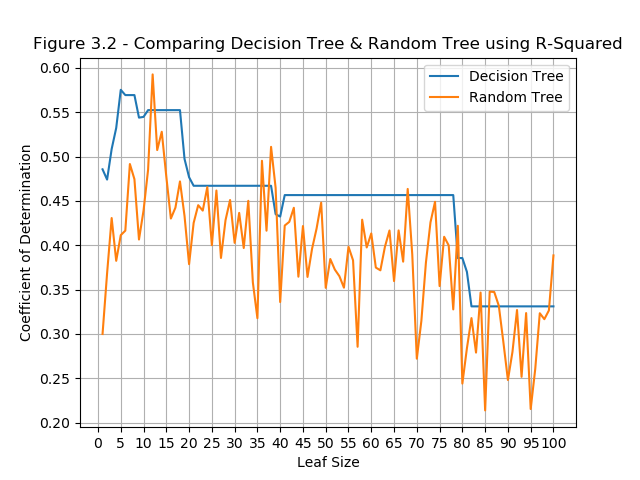
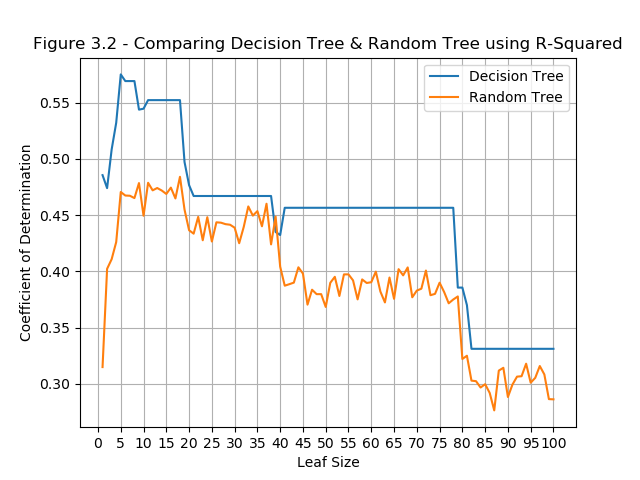
Modified plotting data (Taking Mean of several runs)

diff --git a/assess_learners/testlearner.py b/assess_learners/testlearner.py
@@ -70,7 +70,7 @@ def experiment_1(train_x, train_y, test_x, test_y):
                               out_sample_rsme, "Leaf Size", "RMSE", "Figure1.png", "In Sample", "Out Sample")
 
 def experiment_2(train_x, train_y, test_x, test_y):
-    bag_size = 20
+    bag_size = 50
     experimental_leaf_size = 101
     in_sample_rsme = []
     out_sample_rsme = []
@@ -96,25 +96,29 @@ def experiment_2(train_x, train_y, test_x, test_y):
 
 def experiment_3_1(train_x, train_y, test_x, test_y):
     experimental_leaf_size = 101
-    dt_mae_arr = []
-    rt_mae_arr = []
+    dt_mae_arr = np.zeros((100,25))
+    rt_mae_arr = np.zeros((100,25))
 
     """Computing Mean Absolute Error of DT and RT """
-    for leafsize in range(1, experimental_leaf_size):
-        learner = dtl.DTLearner(leaf_size=leafsize, verbose=False)
-        learner.add_evidence(train_x, train_y)
-        dt_predY = learner.query(test_x)
-        dt_mae = np.mean(np.abs((np.asarray(test_y) - np.asarray(dt_predY))))
-        dt_mae_arr.append(dt_mae)
+    for i in range(25):
+        for leafsize in range(1, experimental_leaf_size):
+            learner = dtl.DTLearner(leaf_size=leafsize, verbose=False)
+            learner.add_evidence(train_x, train_y)
+            dt_predY = learner.query(test_x)
+            dt_mae = np.mean(np.abs((np.asarray(test_y) - np.asarray(dt_predY))))
+            dt_mae_arr[leafsize-1][i] = dt_mae
 
-        learner = rtl.RTLearner(leaf_size=leafsize, verbose=False)
-        learner.add_evidence(train_x, train_y)
-        rt_predY = learner.query(test_x)
-        rt_mae = np.mean(np.abs((np.asarray(test_y) - np.asarray(rt_predY))))
-        rt_mae_arr.append(rt_mae)
+            learner = rtl.RTLearner(leaf_size=leafsize, verbose=False)
+            learner.add_evidence(train_x, train_y)
+            rt_predY = learner.query(test_x)
+            rt_mae = np.mean(np.abs((np.asarray(test_y) - np.asarray(rt_predY))))
+            rt_mae_arr[leafsize-1][i] = rt_mae
 
-    plotting_utility_function("Figure 3.1 - Comparing Decision Tree & Random Tree using MAE", experimental_leaf_size,dt_mae_arr,
-                              rt_mae_arr, "Leaf Size", "Mean Absolute Error", "Figure3_1.png", "Decision Tree", "Random Tree")
+    dt_mae_mean = np.mean(dt_mae_arr, axis=1)
+    rt_mae_mean = np.mean(rt_mae_arr, axis=1)
+
+    plotting_utility_function("Figure 3.1 - Comparing Decision Tree & Random Tree using MAE", experimental_leaf_size,dt_mae_mean,
+                              rt_mae_mean, "Leaf Size", "Mean Absolute Error", "Figure3_1.png", "Decision Tree", "Random Tree")
 
 def compute_r_squared(train_x, train_y, test_x, test_y, learner):
     ss_res = 0
@@ -131,16 +135,20 @@ def compute_r_squared(train_x, train_y, test_x, test_y, learner):
 
 def experiment_3_2(train_x, train_y, test_x, test_y):
     experimental_leaf_size = 101
-    r2_dt = []
-    r2_rt = []
+    r2_dt = np.zeros((100,25))
+    r2_rt = np.zeros((100,25))
 
     """Computing Coefficient of Determination for DT and RT """
-    for leafsize in range(1, experimental_leaf_size):
-        r2_dt.append(compute_r_squared(train_x, train_y, test_x, test_y, dtl.DTLearner(leaf_size=leafsize, verbose=False)))
-        r2_rt.append(compute_r_squared(train_x, train_y, test_x, test_y, rtl.RTLearner(leaf_size=leafsize, verbose=False)))
+    for i in range(25):
+        for leafsize in range(1, experimental_leaf_size):
+            r2_dt[leafsize-1][i] = (compute_r_squared(train_x, train_y, test_x, test_y, dtl.DTLearner(leaf_size=leafsize, verbose=False)))
+            r2_rt[leafsize-1][i] = (compute_r_squared(train_x, train_y, test_x, test_y, rtl.RTLearner(leaf_size=leafsize, verbose=False)))
 
-    plotting_utility_function("Figure 3.2 - Comparing Decision Tree & Random Tree using R-Squared", experimental_leaf_size,r2_dt,
-                              r2_rt, "Leaf Size", "Coefficient of Determination", "Figure3_2.png","Decision Tree", "Random Tree")
+    r2_dt_mean = np.mean(r2_dt, axis=1)
+    r2_rt_mean = np.mean(r2_rt, axis=1)
+
+    plotting_utility_function("Figure 3.2 - Comparing Decision Tree & Random Tree using R-Squared", experimental_leaf_size,r2_dt_mean,
+                              r2_rt_mean, "Leaf Size", "Coefficient of Determination", "Figure3_2.png","Decision Tree", "Random Tree")
 
 if __name__ == "__main__":
     if len(sys.argv) != 2:
